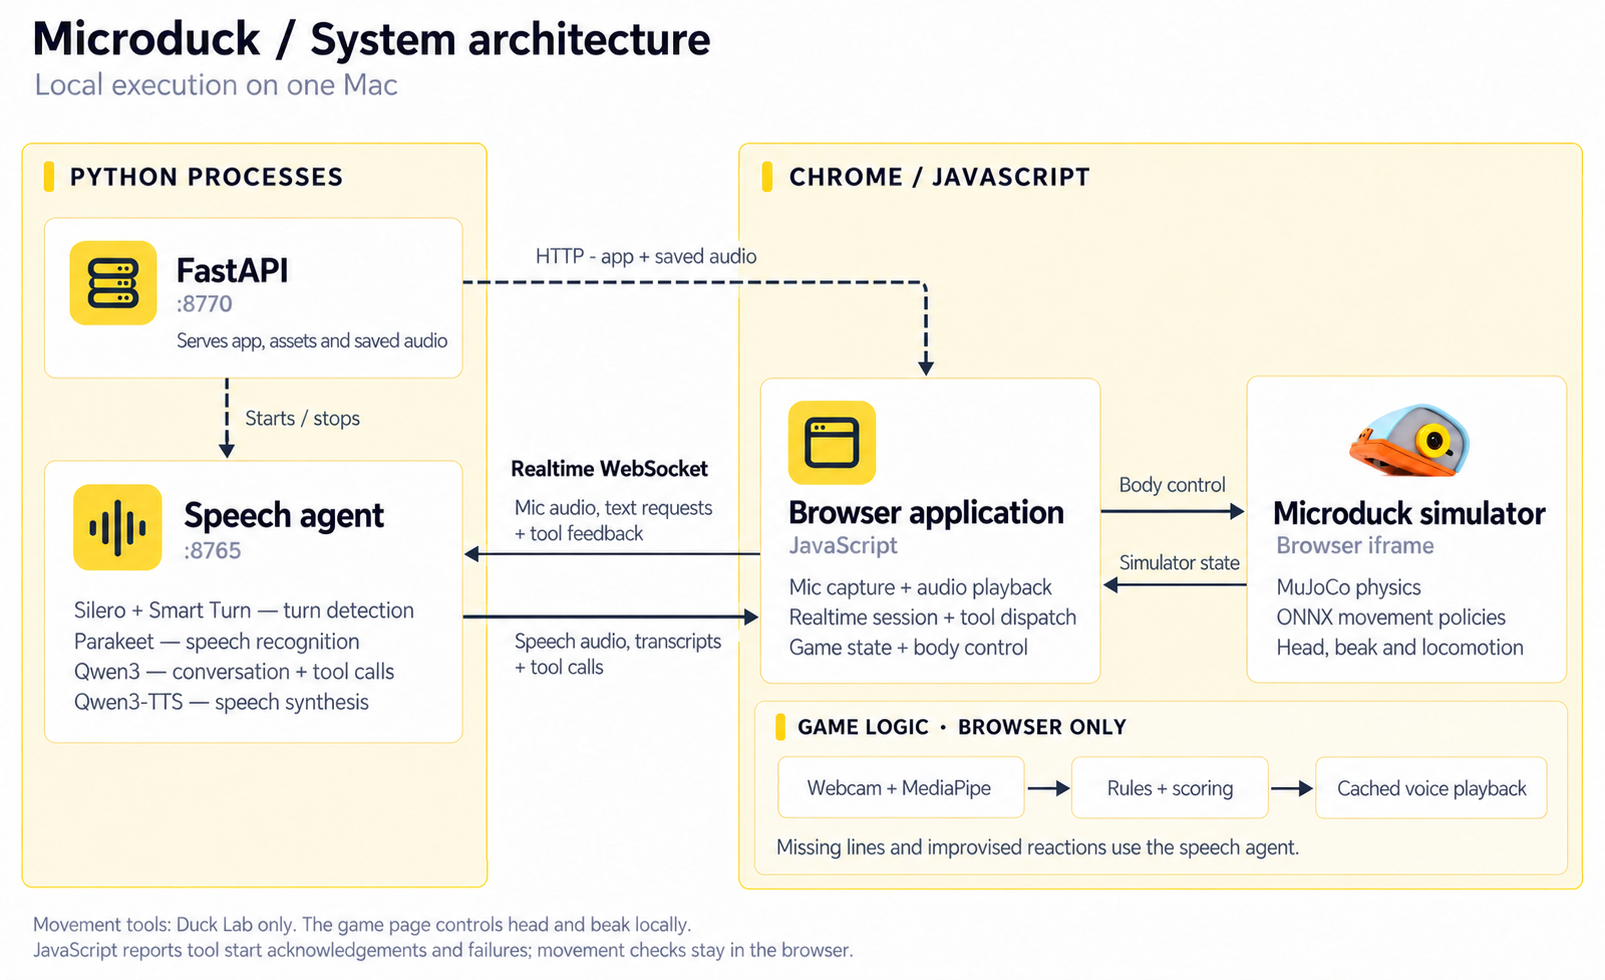
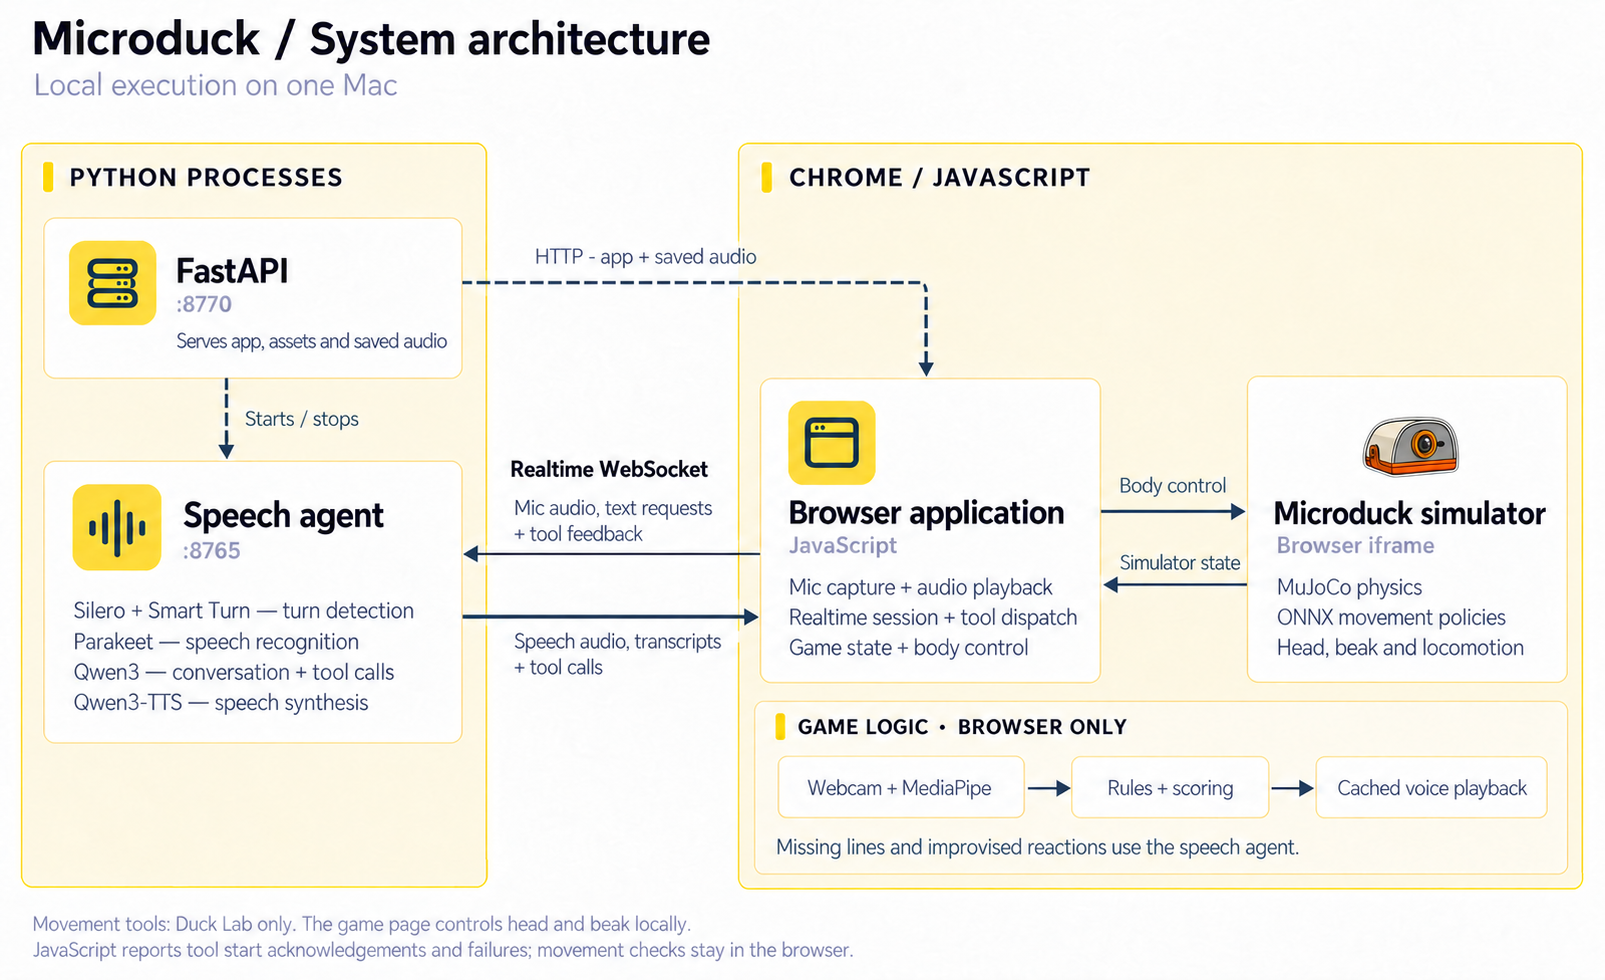
docs: use smaller Pollen Microduck head reference

diff --git a/README.md b/README.md
@@ -115,6 +115,8 @@ A third bug, positional arguments being dropped (`turn_left(360)` lost its value
 
 ## Credits
 
+Diagram duck-head reference: [Pollen Robotics’ Microduck artwork](https://pollen-robotics.com/microduck/press-kit/).
+
 [Microduck and its simulator](https://huggingface.co/spaces/pollen-robotics/microduck-simulator): Pollen Robotics. Voice pipeline: [Hugging Face speech-to-speech](https://github.com/huggingface/speech-to-speech). Pose tracking: [MediaPipe](https://ai.google.dev/edge/mediapipe). Community bow policy: [fffiloni](https://huggingface.co/fffiloni/microduck-polite-bow-b1d864).
 
 This repo includes a simulator patch, not the simulator itself. See [sim/README.md](sim/README.md) for setup and licence notes. Licensed under [Apache 2.0](LICENSE).
